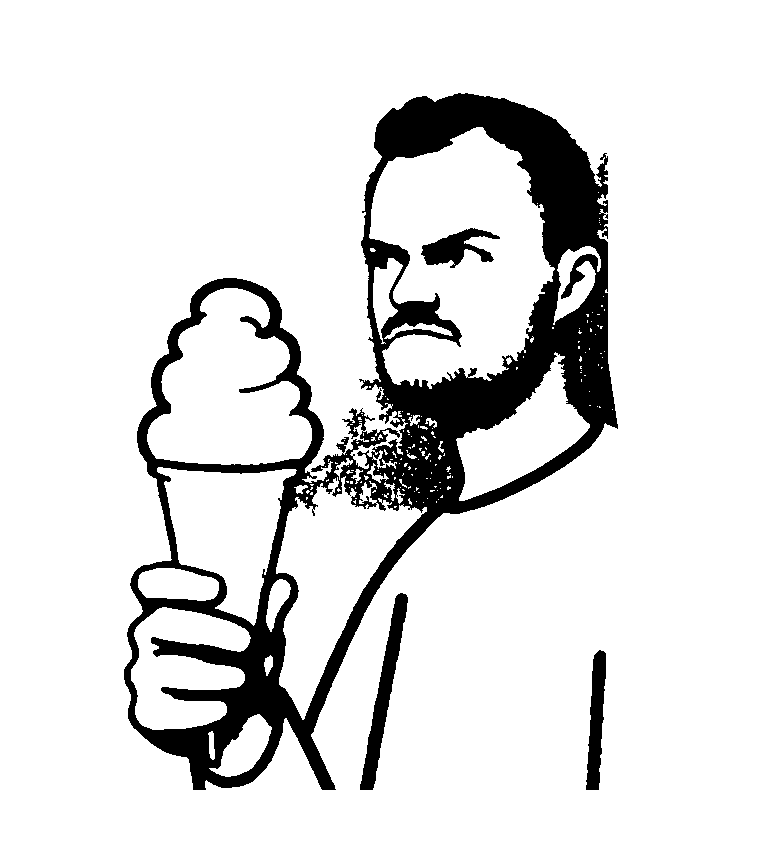
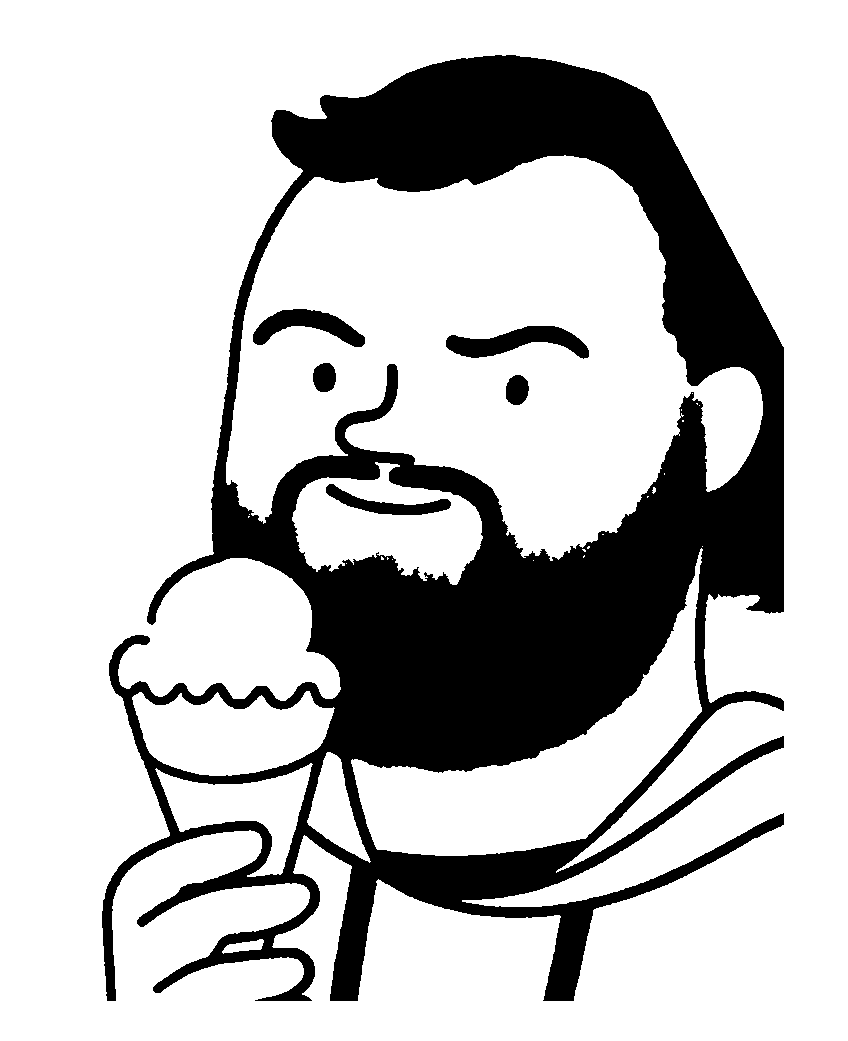
Friendlier founder portrait (relaxed expression, full hair), cache-bust + alt update

diff --git a/index.html b/index.html
@@ -635,7 +635,7 @@
     <!-- ============ FOUNDER ============ -->
     <section class="mt-4 lg:mt-5 grid grid-cols-12 gap-4 lg:gap-5">
         <div class="col-span-12 md:col-span-5 lg:col-span-4 paper-card ring-1 ring-stone-200/50 rounded-2xl p-8 flex flex-col items-center text-center justify-center">
-            <div class="w-40 h-44 rounded-2xl overflow-hidden ring-1 ring-stone-200/60 bg-white mb-5 shadow-[0_4px_16px_rgba(0,0,0,0.04)]"><img src="assets/img/founder-portrait.png" alt="Засновник Gelato — контурний портрет" class="w-full h-full object-cover" loading="lazy"></div>
+            <div class="w-40 h-44 rounded-2xl overflow-hidden ring-1 ring-stone-200/60 bg-white mb-5 shadow-[0_4px_16px_rgba(0,0,0,0.04)]"><img src="assets/img/founder-portrait.png?v=2" alt="Ruslan Gelato — фаундер Gelato Design" class="w-full h-full object-cover" loading="lazy"></div>
             <span class="text-[10px] uppercase eyebrow text-[#E65C00]">Фаундер</span>
             <h3 class="text-xl font-medium tracking-tight mt-2 text-stone-900">Ruslan Gelato</h3>
             <p class="text-sm text-stone-500 mt-1">CEO Gelato Design</p>
